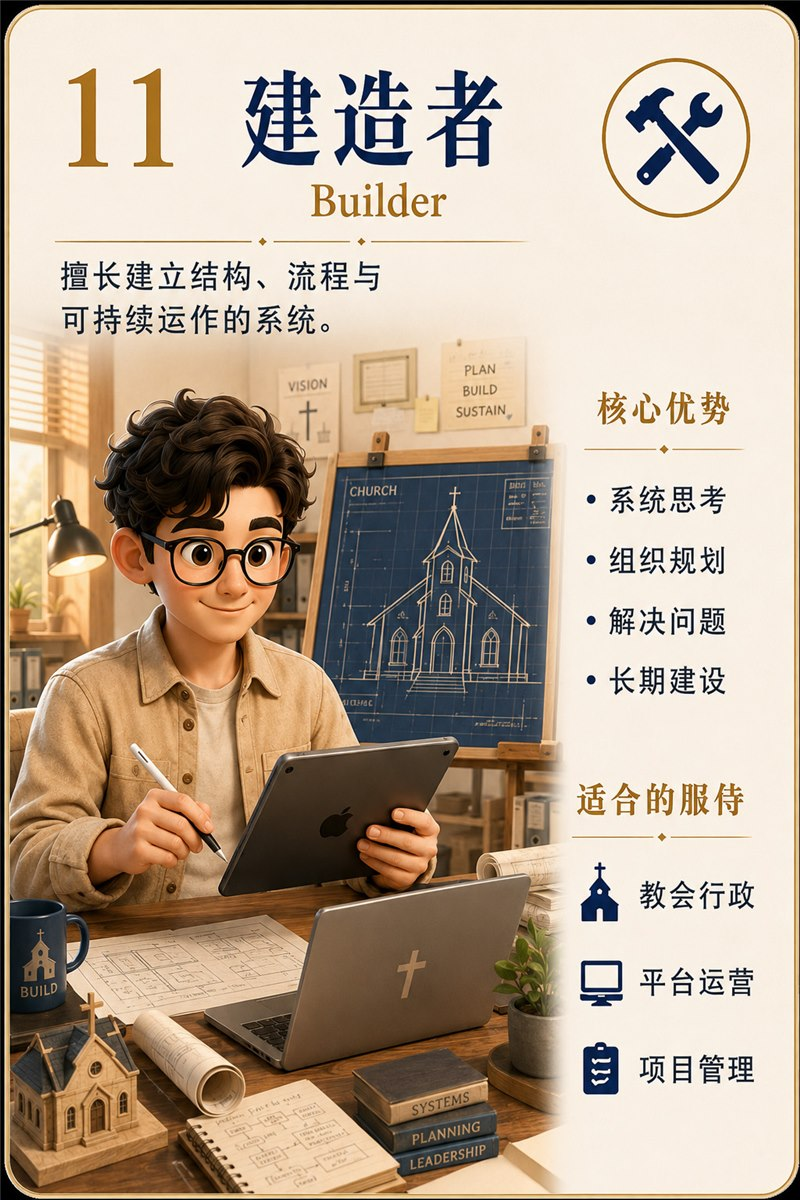
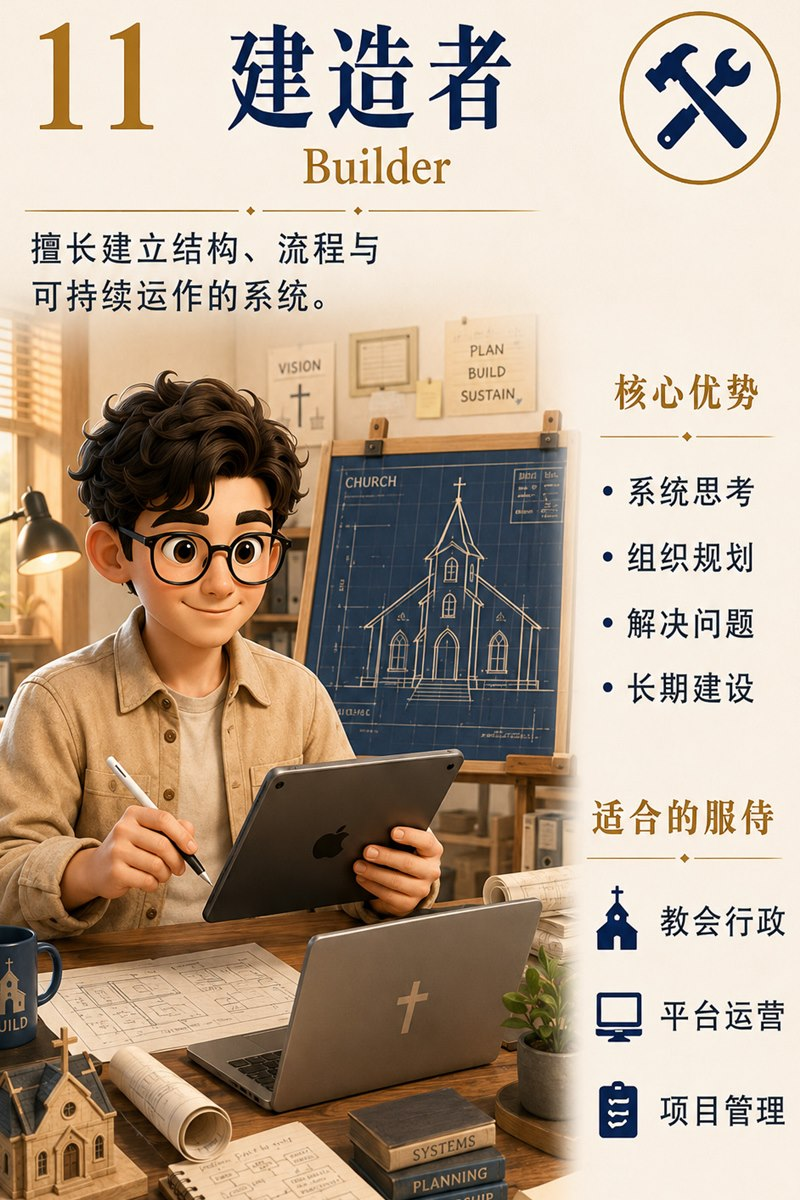
archetypes 卡图去海报边框、统一 800x1200（与 App 同步）

diff --git a/index.html b/index.html
@@ -83,9 +83,9 @@
 })();
 </script>
 <script>(function(){var l=document.createElement("link");l.rel="preload";l.as="image";l.href="assets/img/hero-"+(document.documentElement.dataset.theme==="night"?"night":"day")+".webp";document.head.appendChild(l);})();</script>
-<script src="assets/js/supabase-config.js?v=202608281824"></script>
+<script src="assets/js/supabase-config.js?v=202608281831"></script>
 <link rel="preconnect" href="https://fonts.googleapis.com"><link rel="preconnect" href="https://fonts.gstatic.com" crossorigin><link href="https://fonts.googleapis.com/css2?family=Noto+Serif+SC:wght@600;700;900&display=swap" rel="stylesheet">
-<link rel="stylesheet" href="assets/css/main.css?v=202608281824">
+<link rel="stylesheet" href="assets/css/main.css?v=202608281831">
 </head>
 <body>
 <a class="skip-link" href="#main" data-i18n="actions.skip">跳到主要内容</a>
@@ -1231,6 +1231,6 @@
 </div>
 
 <div class="toast" id="toast" role="status" aria-live="polite"></div>
-<script src="assets/js/main.js?v=202608281824"></script>
+<script src="assets/js/main.js?v=202608281831"></script>
 </body>
 </html>

diff --git a/giving.html b/giving.html
@@ -6,9 +6,9 @@
 <meta name="robots" content="noindex,nofollow">
 <title>与我们同工 | AMAS</title>
 <link rel="icon" href="assets/img/favicon.png">
-<script src="assets/js/supabase-config.js?v=202608281824"></script>
+<script src="assets/js/supabase-config.js?v=202608281831"></script>
 <link rel="preconnect" href="https://fonts.googleapis.com"><link rel="preconnect" href="https://fonts.gstatic.com" crossorigin><link href="https://fonts.googleapis.com/css2?family=Noto+Serif+SC:wght@600;700;900&display=swap" rel="stylesheet">
-<link rel="stylesheet" href="assets/css/main.css?v=202608281824">
+<link rel="stylesheet" href="assets/css/main.css?v=202608281831">
 <style>
   body{background:var(--bg,#f7f1e6)}
   .gv-wrap{max-width:760px;margin:0 auto;padding:34px 18px 70px}

diff --git a/admin.html b/admin.html
@@ -6,7 +6,7 @@
 <meta name="robots" content="noindex,nofollow">
 <title>AMAS 招生后台</title>
 <link rel="icon" href="assets/img/favicon.png">
-<script src="assets/js/supabase-config.js?v=202608281824"></script>
+<script src="assets/js/supabase-config.js?v=202608281831"></script>
 <script src="https://cdn.jsdelivr.net/npm/@supabase/supabase-js@2/dist/umd/supabase.min.js"></script>
 <style>
 *{box-sizing:border-box}

diff --git a/login.html b/login.html
@@ -287,7 +287,7 @@ body::before{
 </div>
 <div class="toast" id="toast"></div>
 
-<script src="assets/js/supabase-config.js?v=202608281824"></script>
+<script src="assets/js/supabase-config.js?v=202608281831"></script>
 <script>
 const $ = (s)=>document.querySelector(s);
 const $$ = (s)=>[...document.querySelectorAll(s)];
